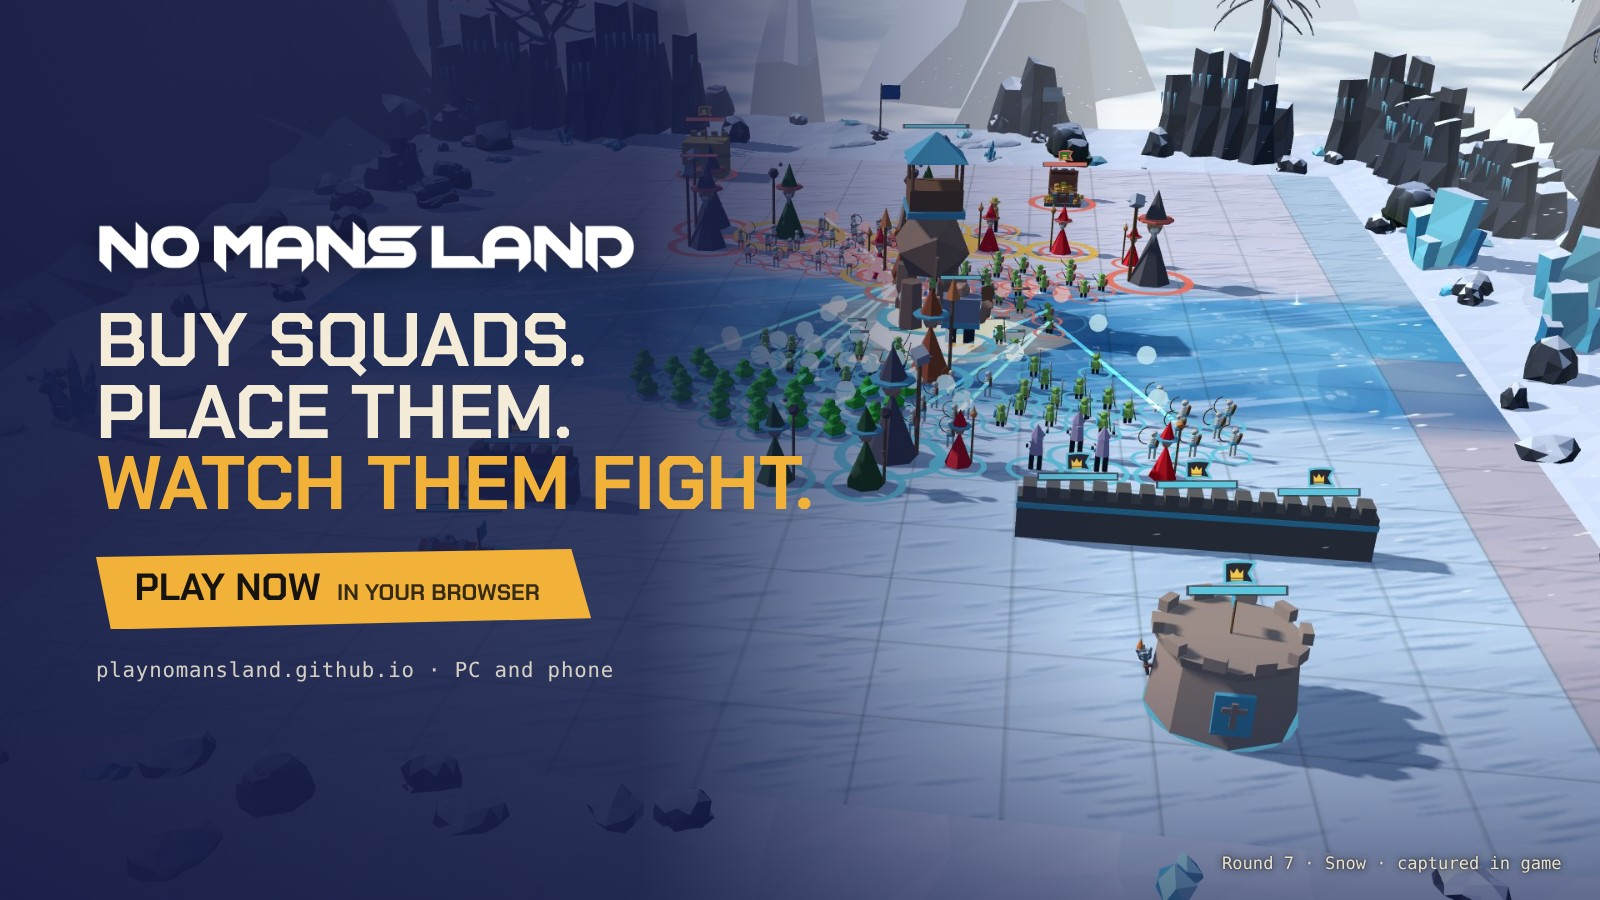
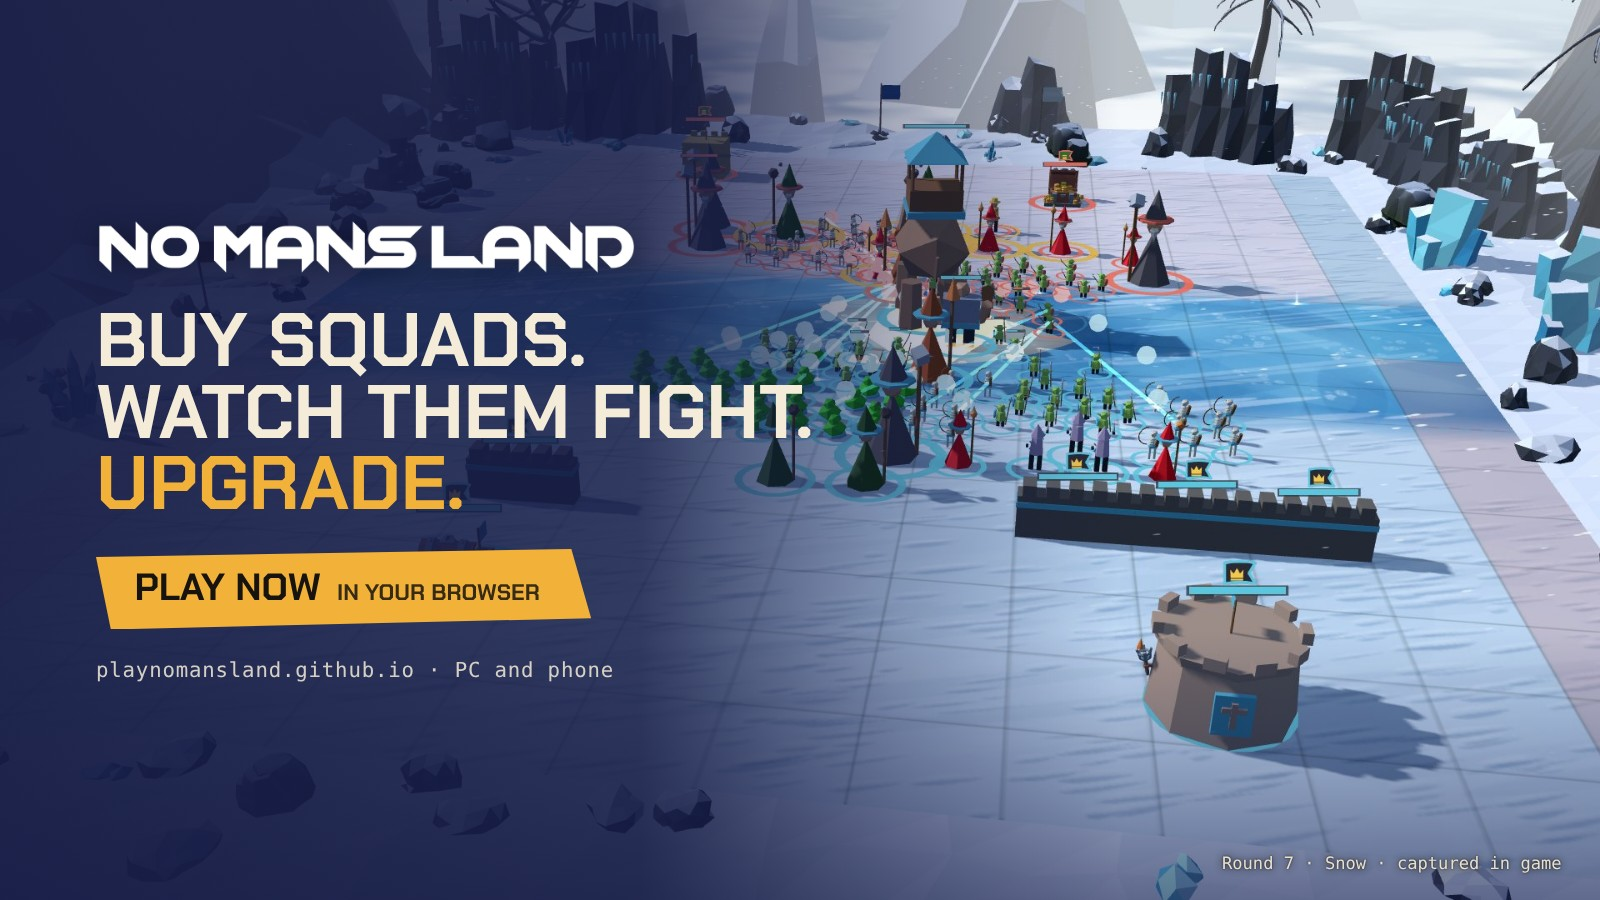
Showcase: the slogan is now Buy squads. Watch them fight. Upgrade.
In the showcase heading and link preview title, the Discord announcement and its
preview, and both cards (og-card.jpg, 01-card.jpg), re-rendered from
tools/showcase/card.html. The heading's column is wider so each phrase keeps
to one line on desktop.

Claude-Session: https://claude.ai/code/session_01Evp91u5shUukMtLY2XVf1f

Changed region(s): [[0.0625, 0.4044, 0.5, 0.5911]]

diff --git a/showcase/index.html b/showcase/index.html
@@ -9,7 +9,7 @@
 <meta name="theme-color" content="#F2B23A">
 <meta property="og:type" content="website">
 <meta property="og:site_name" content="No Mans Land">
-<meta property="og:title" content="No Mans Land: buy squads, place them, watch them fight">
+<meta property="og:title" content="No Mans Land: buy squads, watch them fight, upgrade">
 <meta property="og:description" content="A tactical auto-battler for two. Build your army in secret, then watch the armies collide. Plays in your browser on PC and phone.">
 <meta property="og:url" content="https://playnomansland.github.io/showcase/">
 <meta property="og:image" content="https://playnomansland.github.io/showcase/img/og-card.jpg">
@@ -88,11 +88,11 @@ p { margin: 0; }
   linear-gradient(90deg, rgba(22,28,69,.92) 0%, rgba(22,28,69,.72) 30%, rgba(22,28,69,0) 56%); }
 .hero-copy { position: absolute; inset: 0; z-index: 2; display: flex; align-items: center; }
 .hero-copy .wrap { width: 100%; }
-.hero-copy .inner { max-width: 560px; display: grid; gap: 22px; justify-items: start; }
-.hero h1 { font-size: clamp(42px, 5.6vw, 84px); line-height: .94; }
+.hero-copy .inner { max-width: 760px; display: grid; gap: 22px; justify-items: start; }
+.hero h1 { font-size: clamp(40px, 4.6vw, 72px); line-height: .94; }
 .hero h1 span { display: block; }
 .hero h1 .hot { color: var(--saffron); }
-.hero .lede { font-size: clamp(17px, 1.45vw, 20px); color: var(--cream); max-width: 34em; text-shadow: 0 1px 12px rgba(0,0,0,.4); }
+.hero .lede { font-size: clamp(17px, 1.45vw, 20px); color: var(--cream); max-width: 30em; text-shadow: 0 1px 12px rgba(0,0,0,.4); }
 .hero .ctas { display: flex; flex-wrap: wrap; align-items: center; gap: 18px 28px; margin-top: 4px; }
 .hero .fine { color: var(--cream-2); }
 .callouts { position: absolute; inset: 0; z-index: 1; pointer-events: none; }
@@ -299,7 +299,7 @@ dialog.lb button:focus-visible { outline: 2px solid var(--saffron); }
     <div class="wrap">
       <div class="inner">
         <span class="shard tag">Tactical auto-battler · 1 v 1</span>
-        <h1><span>Buy squads.</span><span>Place them.</span><span class="hot">Watch them fight.</span></h1>
+        <h1><span>Buy squads.</span><span>Watch them fight.</span><span class="hot">Upgrade.</span></h1>
         <p class="lede">Build your army in secret while your opponent does the same. When both of you are ready, the armies clash on their own, and all you have is the plan you made.</p>
         <div class="ctas">
           <a class="shard btn" href="https://playnomansland.github.io/">Play now <small>in your browser</small></a>

diff --git a/showcase/discord/index.html b/showcase/discord/index.html
@@ -143,7 +143,7 @@ textarea:focus { outline: none; }
       <div class="src">
         <div class="src-bar"><span class="count" data-for="t-announce"></span><button class="copy" data-for="t-announce" type="button">Copy</button></div>
         <textarea id="t-announce" spellcheck="false" aria-label="Announcement text"># No Mans Land
-**Buy squads. Place them. Watch them fight.**
+**Buy squads. Watch them fight. Upgrade.**
 
 A tactical auto-battler for two players. Every round you spend your gold and place squads on your half of the field, while your opponent does the same out of sight. Then the armies clash on their own. No orders, no micro, just the plan you made.
 
@@ -190,7 +190,7 @@ https://playnomansland.github.io/showcase/</textarea>
       <div class="chat" aria-label="Preview">
         <div class="label">Preview</div>
         <div class="msg"><img class="av" src="../img/icon.png" alt=""><div><div class="who">No Mans Land <time>Today at 18:00</time></div><div class="md" data-from="t-quick"></div>
-          <div class="embed"><span class="site">No Mans Land</span><span class="title">No Mans Land: buy squads, place them, watch them fight</span><span class="desc">A tactical auto-battler for two. Build your army in secret, then watch the armies collide. Plays in your browser on PC and phone.</span><img src="../img/og-card.jpg" alt=""></div></div></div>
+          <div class="embed"><span class="site">No Mans Land</span><span class="title">No Mans Land: buy squads, watch them fight, upgrade</span><span class="desc">A tactical auto-battler for two. Build your army in secret, then watch the armies collide. Plays in your browser on PC and phone.</span><img src="../img/og-card.jpg" alt=""></div></div></div>
       </div>
     </div>
   </div>

diff --git a/tools/showcase/card.html b/tools/showcase/card.html
@@ -22,7 +22,7 @@ h1 .hot { color: var(--saffron); }
   <div class="bg"></div><div class="shade"></div>
   <div class="copy">
     <img class="logo" src="../../showcase/img/logo.png" alt="">
-    <h1><span>Buy squads.</span><span>Place them.</span><span class="hot">Watch them fight.</span></h1>
+    <h1><span>Buy squads.</span><span>Watch them fight.</span><span class="hot">Upgrade.</span></h1>
     <div class="shard">Play now<small>in your browser</small></div>
     <div class="url">playnomansland.github.io · PC and phone</div>
   </div>
